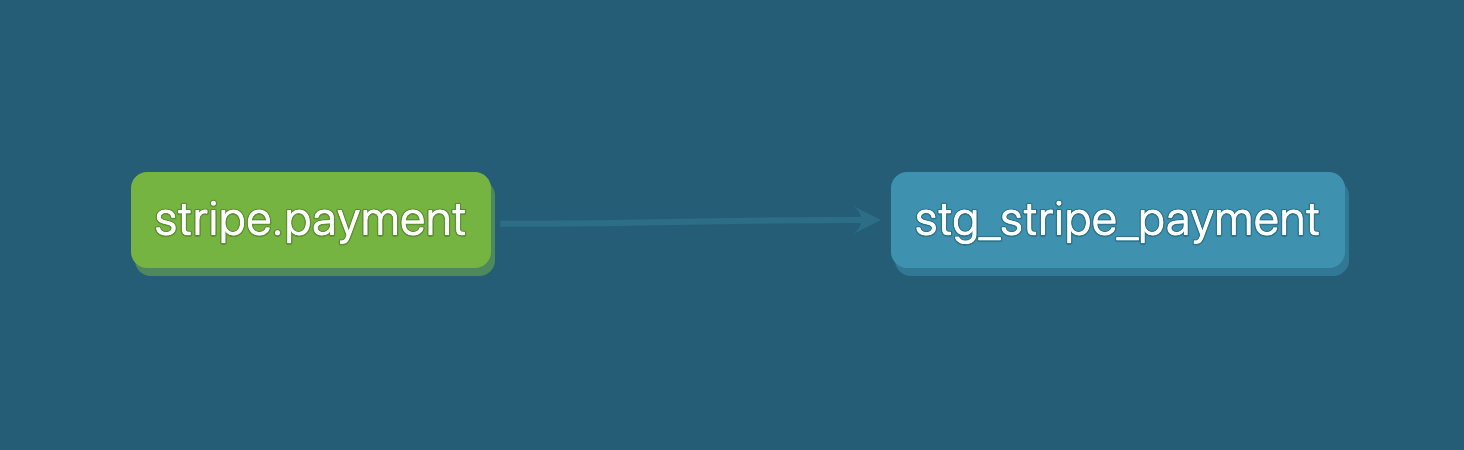
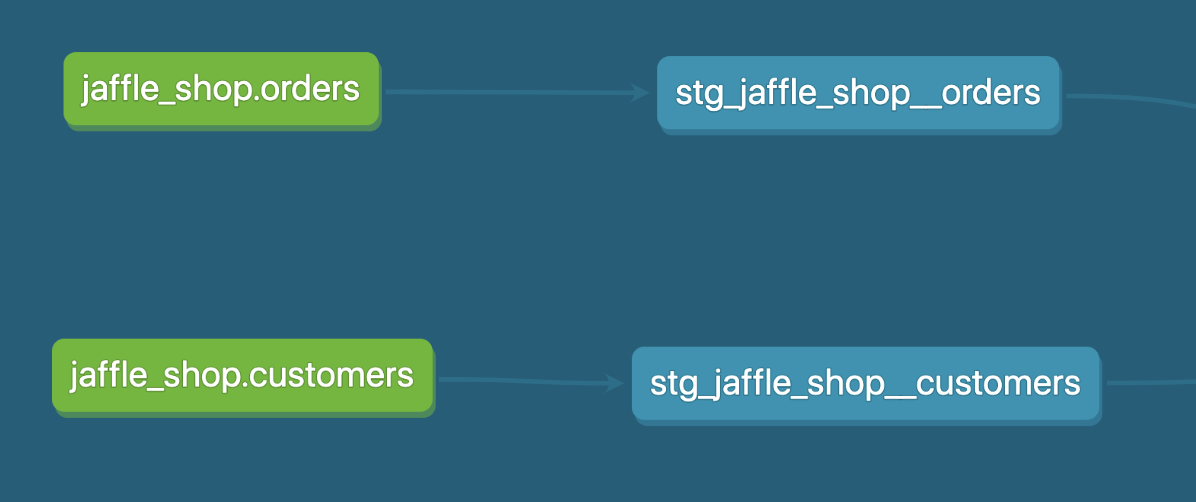
Updates based on remote v1

diff --git a/_lessons/sources.html b/_lessons/sources.html
@@ -14,18 +14,26 @@ class: title, center, middle
 # If you've ever had this happen...
 
 - I'm switching my email marketing platform. I want to know which final models depend on that source data.
---
 
-- I'm switching the tool that extracts and loads _from_ my email
-marketing platform. The table names used to have underscores, now they don't!
 --
 
 - I'm switching from Redshift to Snowflake. All of my source data will be
 in a different database and schema.
+
+--
+
+- Someone asked me "where does this data _really_ come from?"
+
 --
 
 - Nothing in this world is perfect. My data loading tools experience occasional
 hiccups that result in delayed or duplicated data.
+
+--
+
+- Something that was once true about my source data is no longer true (e.g. a
+new payment method was introduced)
+
 --
 
 - (!!) I want to stage & query an external table that points to files in S3.
@@ -58,10 +66,12 @@ Sources are defined in `.yml` files in your `models/` directory.
 version: 2
 
 sources:
-  - name: stripe
+  - name: jaffle_shop
     database: raw
     tables:
-      - name: payment
+      - name: customers
+      - name: orders
+
 ```
 
 ---
@@ -74,7 +84,7 @@ Use the {% raw %}`{{ source() }}`{% endraw %} function to select from a source i
 ```sql
 with source as (
 
-    select * from {{ source('stripe', 'payment') }}
+    select * from {{ source('jaffle_shop', 'customers') }}
 
 ),
 
@@ -105,10 +115,10 @@ You can add tests to sources! And you should!
 version: 2
 
 sources:
-  - name: stripe
+  - name: jaffle_shop
     database: raw
     tables:
-      - name: payment
+      - name: customers
         columns:
           - name: id
             tests:
@@ -138,17 +148,18 @@ Optionally, specify a `loaded_at_field` and `freshness`:
 version: 2
 
 sources:
-  - name: stripe
+  - name: jaffle_shop
     database: raw
-    loaded_at_field: _batched_at
-    loader: airflow     # this is just for documentation
-
-    freshness:
-      warn_after: {count: 12, period: hour}
-      error_after: {count: 24, period: hour}
 
     tables:
-      - name: payment
+      - name: customers
+
+      - name: orders
+        loaded_at_field: _etl_loaded_at
+
+        freshness:
+          warn_after: {count: 12, period: hour}
+          error_after: {count: 24, period: hour}
 
 ```
 
@@ -161,15 +172,15 @@ Then run `dbt source snapshot-freshness`
 
 .denser-text[
 ```yml
-$  dbt source snapshot-freshness
+$ dbt source snapshot-freshness
 Running with dbt=0.16.0
 Found 5 models, 20 tests, 0 snapshots, 0 analyses, 130 macros, 0 operations, 0 seed files, 3 sources
 
-12:03:01 | Concurrency: 4 threads (target='learn')
-12:03:01 |
-12:03:01 | 1 of 1 START freshness of stripe.payment............................. [RUN]
-12:03:04 | 1 of 2 PASS freshness of stripe.payment.............................. [PASS in 2.59s]
-12:03:04 | Done.
+17:29:17 | Concurrency: 4 threads (target='learn')
+17:29:17 |
+17:29:17 | 1 of 1 START freshness of jaffle_shop.orders......................... [RUN]
+17:29:20 | 1 of 1 WARN freshness of jaffle_shop.orders.......................... [WARN in 2.91s]
+17:29:21 | Done.
 ```
 ]
 

diff --git a/_lessons/testing-ci.html b/_lessons/testing-ci.html
@@ -10,16 +10,8 @@ class: title, center, middle
 ---
 
 # Refresher:
---
 
-## 102: The Analytics Engineering Viewpoint
-_**Analytics code should have quality assurance**_
-* _Run automated tests on source data and on transformed data to ensure that SQL works as intended_
-* _Ensure source data is up to date_
-
----
-# Refresher
-## 103: dbt Fundamentals
+## dbt Fundamentals
 _**Tests** are assertions you make about your **models**._
 
 _When you execute the `test` **command** dbt iterates through the schema files (`models/**.yml`) to construct `select` queries._

diff --git a/_lessons/assignment.md b/_lessons/assignment.md
@@ -36,7 +36,7 @@ If you get stuck, we do have worked solutions. Use these as a last resort — wr
 
 Before going further, make sure:
 1. You have completed the [pre-work](https://docs.getdbt.com/learn/setting-up/)
-2. You have added a `fct_orders` model to your project (from [this morning's session](dbt-fundamentals#working-session))
+2. You have added an `orders` or `fct_orders` model to your project (from [this morning's session](dbt-fundamentals#working-session))
 3. Your project is in a repository owned by your personal GitHub account, and is set to public
 4. You can run `dbt run` and `dbt test` without any errors
 
@@ -66,6 +66,8 @@ For each exercise, we recommend you follow a git flow.
 
 ### 1. Refactor your project
 
+_This exercise is optional — feel free to come back to it as a bonus exercise._
+
 Based on our discussion in [Designing a data modeling project](modeling-project-design), refactor your project to be consistent with how we (Fishtown) structure our dbt projects. Consider
 * model naming
 * organization within directories
@@ -75,7 +77,7 @@ Based on our discussion in [Designing a data modeling project](modeling-project-
 
 ### 2. Add more tests to your project
 
-* Ensure that your `orders` model has at least one test on it (and it passes)
+* Ensure that your `fct_orders` / `orders` model has at least one test on it (and it passes)
 
 #### Related resources:
 * [docs.getdbt.com](https://docs.getdbt.com/docs/testing#section-schema-tests)
